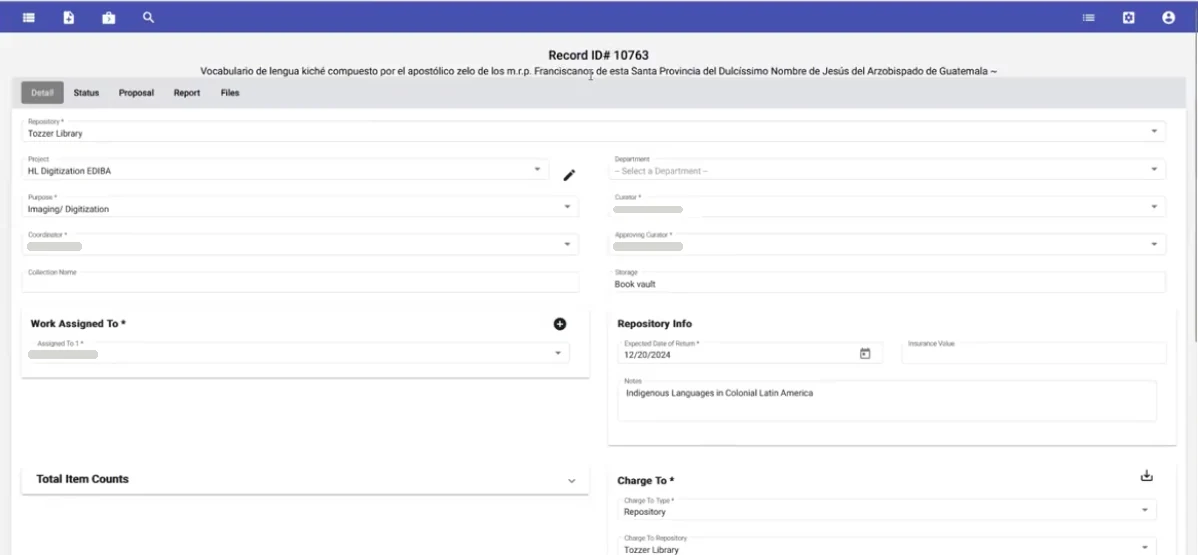
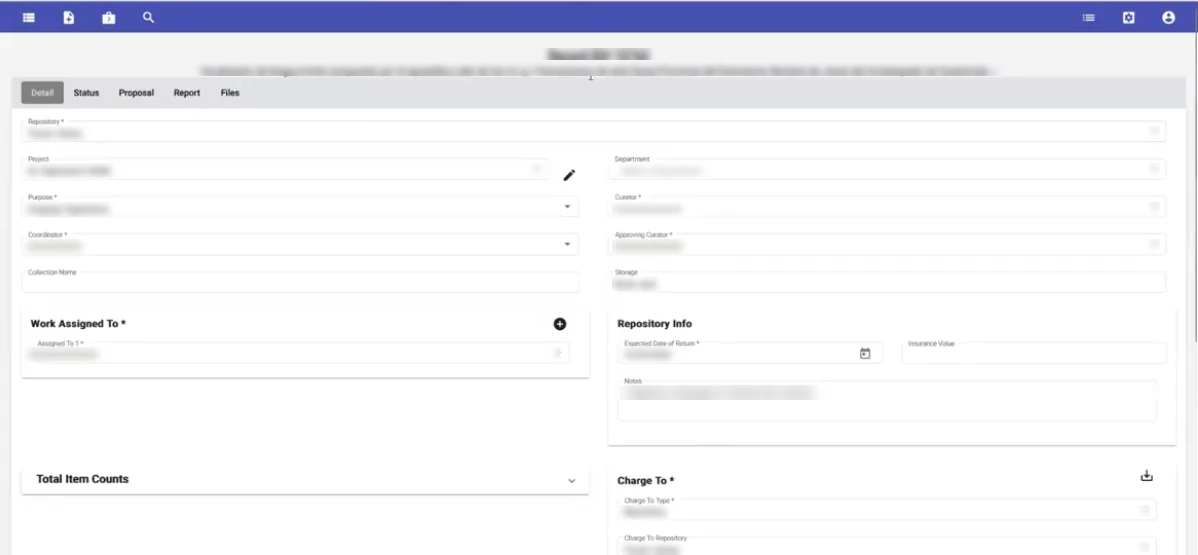
Blur record data in ACORN screenshots
Claude-Session: https://claude.ai/code/session_01BnyPhe4gPb5RbUiVvtKBVP

diff --git a/work/harvard-acorn/index.html b/work/harvard-acorn/index.html
@@ -75,8 +75,8 @@ html.js .to-top:not(.show){opacity:0;visibility:hidden}
 
 <div style="max-width: 1200px; margin: 0 auto; padding: 0 32px">
 <figure style="margin: 0; display: flex; flex-direction: column; gap: 12px">
-<img src="/assets/acorn-records.webp" width="1199" height="497" alt="ACORN Records List in the new React front end: a sortable, filterable table of conservation records with ID, type, title, author, call numbers, status, proposal approval and expected return date, with pagination" style="display: block; width: 100%; height: auto; border-radius: 16px; border: 1px solid #DCDCD8; box-shadow: 0 8px 28px rgba(0,0,0,0.08)">
-<figcaption style="font-family: 'DM Mono', monospace; font-size: 13px; color: #555552">The Records List, rebuilt in React and Material UI</figcaption>
+<img src="/assets/acorn-records.webp" width="1199" height="497" alt="ACORN Records List in the new React front end: a sortable, filterable table of conservation records with columns for ID, type, title, author, call numbers, status, proposal approval and expected return date; the record data is blurred" style="display: block; width: 100%; height: auto; border-radius: 16px; border: 1px solid #DCDCD8; box-shadow: 0 8px 28px rgba(0,0,0,0.08)">
+<figcaption style="font-family: 'DM Mono', monospace; font-size: 13px; color: #555552">The Records List, rebuilt in React and Material UI (record data blurred)</figcaption>
 </figure>
 </div>
 
@@ -110,16 +110,16 @@ html.js .to-top:not(.show){opacity:0;visibility:hidden}
 
 <div style="max-width: 1200px; margin: 0 auto; padding: 48px 32px; display: grid; grid-template-columns: repeat(auto-fit, minmax(min(420px, 100%), 1fr)); gap: 36px 28px; align-items: start">
 <figure style="margin: 0; display: flex; flex-direction: column; gap: 12px">
-<img loading="lazy" decoding="async" src="/assets/acorn-record.webp" width="1198" height="555" alt="ACORN record detail screen with tabs for Detail, Status, Proposal, Report and Files, showing repository, project, purpose, assigned staff and repository info fields; staff names are blurred" style="display: block; width: 100%; height: auto; border-radius: 12px; border: 1px solid #DCDCD8; box-shadow: 0 8px 28px rgba(0,0,0,0.08)">
-<figcaption style="font-family: 'DM Mono', monospace; font-size: 13px; color: #555552">Record detail with tabbed workflow (staff names blurred)</figcaption>
+<img loading="lazy" decoding="async" src="/assets/acorn-record.webp" width="1198" height="555" alt="ACORN record detail screen with tabs for Detail, Status, Proposal, Report and Files, showing fields for repository, project, purpose, assigned staff and repository info; the values are blurred" style="display: block; width: 100%; height: auto; border-radius: 12px; border: 1px solid #DCDCD8; box-shadow: 0 8px 28px rgba(0,0,0,0.08)">
+<figcaption style="font-family: 'DM Mono', monospace; font-size: 13px; color: #555552">Record detail with tabbed workflow (record data blurred)</figcaption>
 </figure>
 <figure style="margin: 0; display: flex; flex-direction: column; gap: 12px">
 <img loading="lazy" decoding="async" src="/assets/acorn-transfer.webp" width="1198" height="320" alt="ACORN Transfer Form, step 1 of a 4-step wizard, with fields for transfer type, from, to, by and date" style="display: block; width: 100%; height: auto; border-radius: 12px; border: 1px solid #DCDCD8; box-shadow: 0 8px 28px rgba(0,0,0,0.08)">
 <figcaption style="font-family: 'DM Mono', monospace; font-size: 13px; color: #555552">Transfers as a four-step form</figcaption>
 </figure>
 <figure style="margin: 0; display: flex; flex-direction: column; gap: 12px; grid-column: 1 / -1">
-<img loading="lazy" decoding="async" src="/assets/acorn-admin.webp" width="1200" height="368" alt="ACORN admin list of reusable proposal and report text, with edit and delete actions, owner and global columns; owner names are blurred" style="display: block; width: 100%; height: auto; border-radius: 12px; border: 1px solid #DCDCD8; box-shadow: 0 8px 28px rgba(0,0,0,0.08)">
-<figcaption style="font-family: 'DM Mono', monospace; font-size: 13px; color: #555552">Admin lists for reusable proposal and report text (names blurred)</figcaption>
+<img loading="lazy" decoding="async" src="/assets/acorn-admin.webp" width="1200" height="368" alt="ACORN admin list of reusable proposal and report text, with edit and delete actions and caption, owner and global columns; the values are blurred" style="display: block; width: 100%; height: auto; border-radius: 12px; border: 1px solid #DCDCD8; box-shadow: 0 8px 28px rgba(0,0,0,0.08)">
+<figcaption style="font-family: 'DM Mono', monospace; font-size: 13px; color: #555552">Admin lists for reusable proposal and report text (data blurred)</figcaption>
 </figure>
 </div>
 <section style="max-width: 1000px; margin: 0 auto; padding: 56px 32px 32px; display: flex; flex-wrap: wrap; gap: 48px">

diff --git a/index.html b/index.html
@@ -139,7 +139,7 @@ linkedin.com/in/akfosterdev<span class="sr-only"> (opens in a new tab)</span></a
 </article>
 
 <article style="background: #FFFFFF; border-radius: 16px; overflow: hidden; display: flex; flex-direction: column">
-<img loading="lazy" decoding="async" src="/assets/acorn-records.webp" width="1199" height="497" alt="ACORN Records List: a table of conservation records with status and proposal approval columns" style="display: block; width: 100%; height: 220px; object-fit: cover; object-position: left top; background: #E4E4E0">
+<img loading="lazy" decoding="async" src="/assets/acorn-records.webp" width="1199" height="497" alt="ACORN Records List: a table of conservation records, with the record data blurred" style="display: block; width: 100%; height: 220px; object-fit: cover; object-position: left top; background: #E4E4E0">
 <div style="padding: 28px; display: flex; flex-direction: column; gap: 14px; flex-grow: 1">
 <p style="margin: 0; font-family: 'DM Mono', monospace; font-size: 13px; color: #555552">Harvard University Library · 2026</p>
 <h3 style="margin: 0; font-family: 'Alata', sans-serif; font-weight: 400; font-size: 26px">ACORN conservation records</h3>
